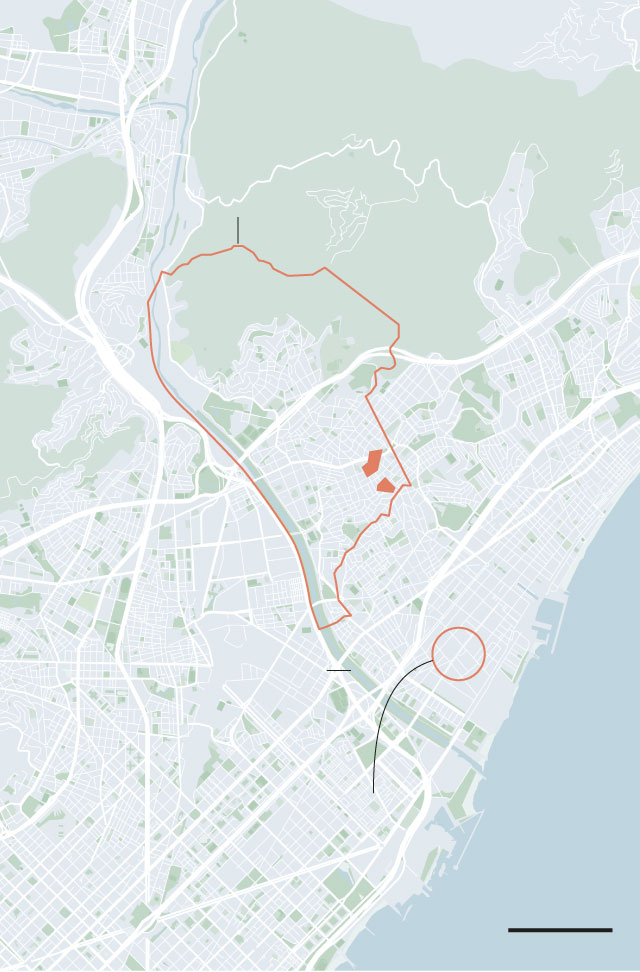
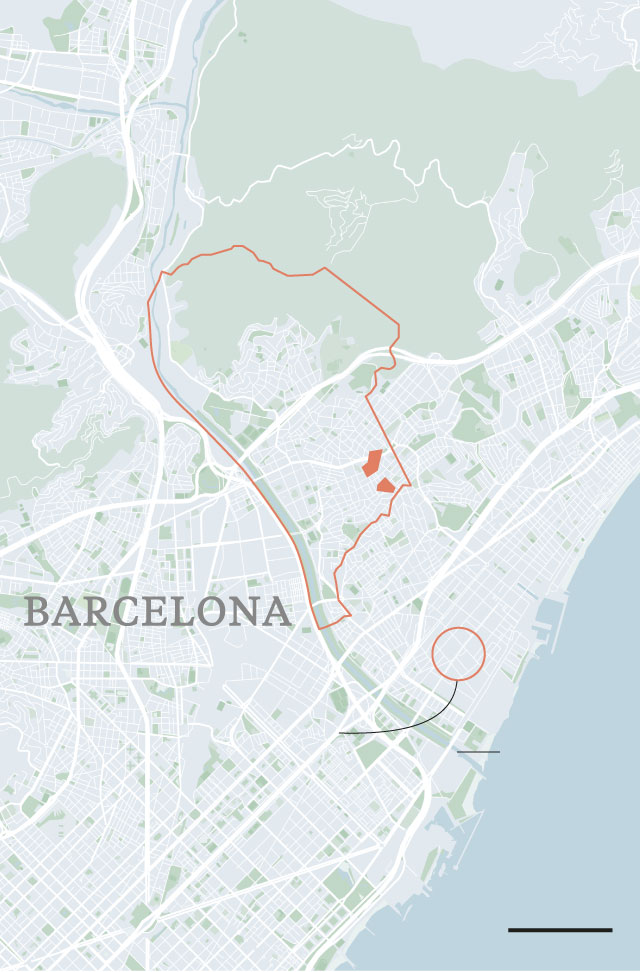
Add files via upload

Changed region(s): [[0.0312, 0.5864, 0.4688, 0.6481], [0.5625, 0.7407, 0.5938, 0.7716]]

diff --git a/SantaColomaMovil/Base-Diapos2.html b/SantaColomaMovil/Base-Diapos2.html
@@ -1,5 +1,5 @@
 
-<!-- Generated by ai2html v0.100.0 - 2020-12-05 00:50 -->
+<!-- Generated by ai2html v0.100.0 - 2020-12-05 01:56 -->
 <!-- ai file: Base Diapos2.ai -->
 <style media="screen,print">
 	#g-Base-Diapos2-box ,
@@ -30,12 +30,12 @@
 	#g-Base-Diapos2-SantaColomaMovil p {
 		font-family:Libre Franklin, sans-serif;
 		font-weight:400;
-		line-height:14px;
+		line-height:16px;
 		filter:alpha(opacity=100);
 		-ms-filter:progid:DXImageTransform.Microsoft.Alpha(Opacity=100);
 		opacity:1;
 		letter-spacing:0em;
-		font-size:12px;
+		font-size:14px;
 		text-align:left;
 		color:rgb(0,0,0);
 		text-transform:none;
@@ -47,76 +47,57 @@
 		position:static;
 	}
 	#g-Base-Diapos2-SantaColomaMovil .g-pstyle0 {
-		font-family:Tiempos Text,georgia,serif;
-		font-weight:700;
-		letter-spacing:-0.006em;
-		font-size:16px;
+		line-height:14px;
+		font-size:13px;
 	}
 	#g-Base-Diapos2-SantaColomaMovil .g-pstyle1 {
 		font-family:Tiempos Text,georgia,serif;
 		font-weight:700;
-		line-height:18px;
+		line-height:14px;
 		letter-spacing:-0.006em;
-		color:rgb(225,127,99);
+		font-size:17px;
 	}
 	#g-Base-Diapos2-SantaColomaMovil .g-pstyle2 {
+		font-family:Tiempos Text,georgia,serif;
 		font-weight:700;
-		line-height:12px;
-		font-size:10px;
-		color:rgb(135,135,135);
+		line-height:18px;
+		letter-spacing:-0.01em;
+		color:rgb(225,127,99);
 	}
 	#g-Base-Diapos2-SantaColomaMovil .g-pstyle3 {
 		font-family:Tiempos Text,georgia,serif;
 		font-weight:700;
 		line-height:17px;
 		letter-spacing:-0.006em;
-		font-size:14px;
 	}
 	#g-Base-Diapos2-SantaColomaMovil .g-pstyle4 {
-		font-family:Tiempos Text,serif;
+		font-family:Tiempos Text,georgia,serif;
+		font-weight:700;
+		line-height:18px;
 		letter-spacing:-0.006em;
-		font-size:13px;
-		text-align:center;
-		color:rgb(128,128,128);
+		color:rgb(225,127,99);
 	}
 	#g-Base-Diapos2-SantaColomaMovil .g-pstyle5 {
-		font-family:Tiempos Text,serif;
-		letter-spacing:-0.006em;
-		font-size:13px;
-		color:rgb(128,128,128);
+		font-weight:600;
 	}
 	#g-Base-Diapos2-SantaColomaMovil .g-pstyle6 {
 		font-family:Tiempos Text,georgia,serif;
 		font-style:italic;
-		line-height:12px;
+		line-height:14px;
 		letter-spacing:-0.006em;
-		font-size:10px;
+		font-size:12px;
+		text-align:center;
 	}
 	#g-Base-Diapos2-SantaColomaMovil .g-pstyle7 {
-		font-family:Tiempos Text,serif;
-		line-height:15px;
-		letter-spacing:-0.006em;
-		font-size:13px;
-		text-align:center;
-		color:rgb(128,128,128);
-	}
-	#g-Base-Diapos2-SantaColomaMovil .g-pstyle8 {
-		font-family:Tiempos Text,serif;
-		line-height:24px;
-		letter-spacing:0.2em;
-		font-size:20px;
-		color:rgb(135,135,135);
-	}
-	#g-Base-Diapos2-SantaColomaMovil .g-pstyle9 {
-		font-family:Tiempos Text,georgia,serif;
-		font-style:italic;
-		letter-spacing:-0.006em;
-		text-align:center;
-	}
-	#g-Base-Diapos2-SantaColomaMovil .g-pstyle10 {
 		font-weight:700;
 		line-height:13px;
 		font-size:11px;
+	}
+	#g-Base-Diapos2-SantaColomaMovil .g-cstyle0 {
+		font-weight:600;
+	}
+	#g-Base-Diapos2-SantaColomaMovil .g-cstyle1 {
+		font-weight:400;
 	}
 
 </style>
@@ -128,69 +109,46 @@
 <div style="padding: 0 0 151.8629% 0;"></div>
 		<img id="g-Base-Diapos2-SantaColomaMovil-img" class="g-aiImg" alt="" src="Base-Diapos2-SantaColomaMovil.jpg"/>
 		<div id="g-ai15-1" class="g-Capa_1 g-aiAbs" style="top:2.4693%;left:4.2949%;width:72.5%;">
-			<p>BARCELONA</p>
+			<p class="g-pstyle0">BARCELONA</p>
 		</div>
-		<div id="g-ai15-2" class="g-Capa_1 g-aiAbs" style="top:6.3791%;left:4.3342%;width:90.625%;">
-			<p class="g-pstyle0">SANTA COLOMA DE GRAMENET</p>
+		<div id="g-ai15-2" class="g-Capa_1 g-aiAbs" style="top:6.3791%;left:4.3342%;width:95.3125%;">
+			<p class="g-pstyle1">SANTA COLOMA DE GRAMENET</p>
 		</div>
-		<div id="g-ai15-3" class="g-Capa_1 g-aiAbs" style="top:10.9062%;left:4.1995%;width:83.75%;">
-			<p>La población nacida en china es la comunidad extranjera mayoritaria en un puñado de secciones censales, llegando a suponer el </p>
-			<p>30% de la población en algunas de ellas</p>
+		<div id="g-ai15-3" class="g-Capa_1 g-aiAbs" style="top:10.9062%;left:4.1995%;width:95.9375%;">
+			<p><span class="g-cstyle0">La población nacida en china</span> es la comunidad extranjera mayoritaria en un puñado de secciones censales, llegando a suponer </p>
+			<p>el <span class="g-cstyle0">30% de la población</span> en algunas de ellas</p>
 		</div>
-		<div id="g-ai15-4" class="g-Capa_1 g-aiAbs" style="top:25.928%;left:61.4492%;width:36.25%;">
-			<p class="g-pstyle1">SANTA COLOMA </p>
-			<p class="g-pstyle1">DE GRAMENET</p>
+		<div id="g-ai15-4" class="g-Capa_1 g-aiAbs" style="top:38.2747%;left:61.4492%;width:38.125%;">
+			<p class="g-pstyle2">SANTA COLOMA </p>
+			<p class="g-pstyle2">DE GRAMENET</p>
 		</div>
-		<div id="g-ai15-5" class="g-Capa_1 g-aiAbs" style="top:29.4262%;left:8.6746%;width:20.9375%;">
-			<p class="g-pstyle2">C-33</p>
-		</div>
-		<div id="g-ai15-6" class="g-Capa_1 g-aiAbs" style="top:35.3938%;left:68.865%;width:20.9375%;">
-			<p class="g-pstyle2">BV-5001</p>
-		</div>
-		<div id="g-ai15-7" class="g-Capa_1 g-aiAbs" style="top:46.7115%;left:78.9385%;width:9.6875%;">
-			<p class="g-pstyle2">C-31</p>
-		</div>
-		<div id="g-ai15-8" class="g-Capa_1 g-aiAbs" style="top:53.708%;left:72.6563%;width:25%;">
+		<div id="g-ai15-5" class="g-Capa_1 g-aiAbs" style="top:53.708%;left:72.6563%;width:25%;">
 			<p class="g-pstyle3">Badalona</p>
 		</div>
-		<div id="g-ai15-9" class="g-Capa_1 g-aiAbs" style="top:53.9138%;left:22.5666%;margin-left:-13.4375%;width:26.875%;">
-			<p class="g-pstyle4">Nou Barris</p>
+		<div id="g-ai15-6" class="g-Capa_1 g-aiAbs" style="top:63.1738%;left:77.0402%;width:21.25%;">
+			<p class="g-pstyle4">SANT</p>
+			<p class="g-pstyle4">ROC</p>
 		</div>
-		<div id="g-ai15-10" class="g-Capa_1 g-aiAbs" style="top:63.1738%;left:24.2285%;width:28.4375%;">
-			<p class="g-pstyle5">Sant Andreu</p>
-		</div>
-		<div id="g-ai15-11" class="g-Capa_1 g-aiAbs" style="top:65.2315%;left:77.0402%;width:20.625%;">
-			<p class="g-pstyle1">SANT ROC</p>
-		</div>
-		<div id="g-ai15-12" class="g-Capa_1 g-aiAbs" style="top:66.2604%;left:15.4646%;width:20.9375%;">
-			<p class="g-pstyle2">C-33</p>
-		</div>
-		<div id="g-ai15-13" class="g-Capa_1 g-aiAbs" style="top:67.2893%;left:37.2455%;width:20.9375%;">
-			<p class="g-pstyle6">Río Besós</p>
-		</div>
-		<div id="g-ai15-14" class="g-Capa_1 g-aiAbs" style="top:72.0222%;left:81.8863%;margin-left:-13.9062%;width:27.8125%;">
-			<p class="g-pstyle7">Sant Adrià </p>
-			<p class="g-pstyle7">del Besós</p>
-		</div>
-		<div id="g-ai15-15" class="g-Capa_1 g-aiAbs" style="top:72.0222%;left:3.6438%;width:54.6875%;">
-			<p class="g-pstyle8">BARCELONA</p>
-		</div>
-		<div id="g-ai15-16" class="g-Capa_1 g-aiAbs" style="top:82.1053%;left:83.6635%;margin-left:-14.6875%;width:29.375%;">
-			<p class="g-pstyle9">Mar </p>
-			<p class="g-pstyle9">Mediterráneo</p>
-		</div>
-		<div id="g-ai15-17" class="g-Capa_1 g-aiAbs" style="top:82.3111%;left:3.2812%;width:68.75%;">
-			<p>Asimismo, la comunidad pakistaní</p>
-			<p>se asienta en el barrio badalonés</p>
-			<p>de Sant Roc, donde su presencia</p>
-			<p>es mucho más alta que en el resto</p>
+		<div id="g-ai15-7" class="g-Capa_1 g-aiAbs" style="top:73.0511%;left:3.2812%;width:67.1875%;">
+			<p class="g-pstyle5"><span class="g-cstyle1">Asimismo, </span>la comunidad pakistaní se asienta en </p>
+			<p class="g-pstyle5">el barrio badalonés</p>
+			<p class="g-pstyle5">de Sant Roc,<span class="g-cstyle1"> donde </span></p>
+			<p>su presencia es mucho </p>
+			<p>más alta que en el resto</p>
 			<p>de la corona metropolitana</p>
 		</div>
-		<div id="g-ai15-18" class="g-Capa_1 g-aiAbs" style="top:92.8058%;left:84.0061%;width:13.125%;">
-			<p class="g-pstyle10">1 km</p>
+		<div id="g-ai15-8" class="g-Capa_1 g-aiAbs" style="top:75.5204%;left:87.4017%;margin-left:-10.4687%;width:20.9375%;">
+			<p class="g-pstyle6">Río Besós</p>
+		</div>
+		<div id="g-ai15-9" class="g-Capa_1 g-aiAbs" style="top:82.9284%;left:83.976%;margin-left:-14.6875%;width:29.375%;">
+			<p class="g-pstyle6">Mar </p>
+			<p class="g-pstyle6">Mediterráneo</p>
+		</div>
+		<div id="g-ai15-10" class="g-Capa_1 g-aiAbs" style="top:92.8058%;left:84.0061%;width:13.125%;">
+			<p class="g-pstyle7">1 km</p>
 		</div>
 	</div>
 
 </div>
 
-<!-- End ai2html - 2020-12-05 00:50 -->
+<!-- End ai2html - 2020-12-05 01:56 -->
